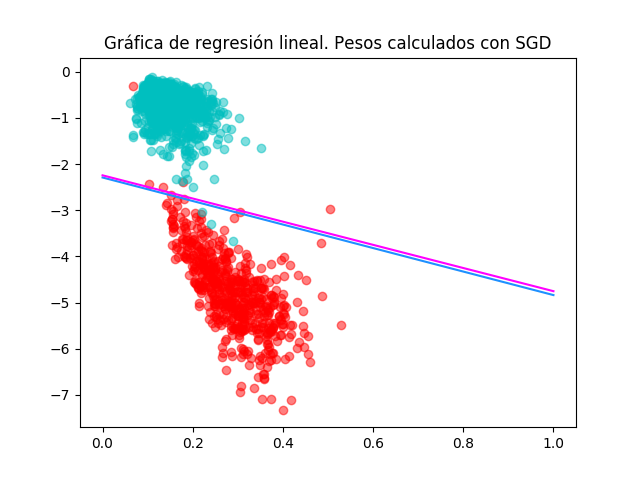
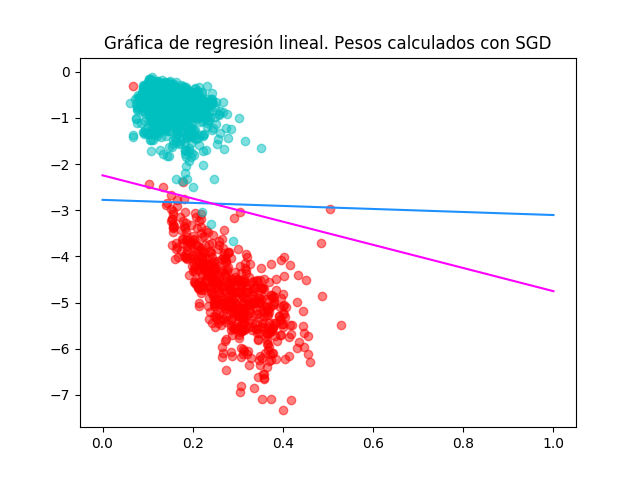
fixing sgd

diff --git a/PRACTICAS/P1/Template/Práctica1.py b/PRACTICAS/P1/Template/Práctica1.py
@@ -454,26 +454,32 @@ def sgd(X,Y,epsilon = 1e-14, lr = 0.001):
 	minibatch_size = 64 # establecemos un tamaño de minibatch
 	minibatch_num = size_of_x // minibatch_size # calculamos el número de minibatchs en que podemos dividir X
 	cols_of_x = len(X[0]) # calculamos el número de columnas de X (su número de características)
-	w = np.zeros(cols_of_x) # inicializamos un vector de pesos a 0 con longitud = cols_of_x
 	error_antiguo = 999.0 # inicializamos a un valor suficientemente alto para asegurarnos que entra en la condición de actualización de su valor
 	continuar = True # inicializamos a true para que entre en el bucle
+	w_epoca_actual = np.zeros(cols_of_x)
+	matriz_completa = np.c_[X,Y]
+	etiquetas = matriz_completa[:,3]
+	datos = matriz_completa[:,0:3]
 
 	# mientras la diferencia entre el anterior error calculado y el recién calculado sea mayor que 1e-14 continuamos realizando el algoritmo
 	while(continuar):
+		np.random.shuffle(matriz_completa)
+		etiquetas = matriz_completa[:,3]
+		datos = matriz_completa[:,0:3]
 		# recorremos todos los minibatchs en los que hemos dividido X
 		for i in range(minibatch_num):
 			# recorremos las características de X (sus columnas)
 			for j in range(cols_of_x):
 				# multiplicamos vectorialmente toda la submatriz de X que conforma un minibatch por su peso asociado
-				h_x = np.dot(X[i*minibatch_size : (i+1)*minibatch_size, :],w)
+				h_x = np.dot(datos[i*minibatch_size : (i+1)*minibatch_size, :],w_epoca_actual)
 				# restamos al valor obtenido su verdadero valor para ver cuanta precisión tenemos por ahora
-				diff = h_x - Y[i*minibatch_size : (i+1)*minibatch_size]
+				diff = h_x - etiquetas[i*minibatch_size : (i+1)*minibatch_size]
 				# multiplicamos individualmente la característica correspondiente a la columna j, fila a fila del minibatch, por la diferencia anterior
-				mul = np.dot(X[i*minibatch_size : (i+1)*minibatch_size , j], diff)
+				mul = np.dot(datos[i*minibatch_size : (i+1)*minibatch_size , j], diff)
 				# realizamos la sumatoria de los valores obtenidos en el vector anterior (mul)
 				sumatoria = np.sum(mul)
 				# actualizamos w[j] (el peso de esa característica) restándole el valor anterior multiplicado por el learning rate
-				w[j] = w[j] - lr*sumatoria
+				w_epoca_actual[j] = w_epoca_actual[j] - lr*sumatoria
 
 		"""
 		si el número de filas de x no es múltiplo del tamaño del minibach sobrarán elementos en x que no se recorran con los bucles anteriores
@@ -481,15 +487,20 @@ def sgd(X,Y,epsilon = 1e-14, lr = 0.001):
 		"""
 		if size_of_x % minibatch_size != 0:
 			n = minibatch_num*minibatch_size
-			for j in range(cols_of_x):
-				h_x = np.dot(X[n : size_of_x, :],w)
-				diff = h_x - Y[n : size_of_x]
-				mul = np.dot(X[n : size_of_x , j], diff)
-				sumatoria = np.sum(mul)
-				w[j] = w[j] - lr*sumatoria
+			restantes = size_of_x - n
+			a = np.r_[ datos[n : size_of_x, :], datos[0:restantes, :] ]
+			b = np.r_[ etiquetas[n : size_of_x], etiquetas[0:restantes] ]
 
-		# calculamos el error que obtenemos con una primera vuelta a los minibatchs
-		error = Err(X,Y,w)
+			for j in range(cols_of_x):
+				h_x = np.dot(a,w_epoca_actual)
+				diff = h_x - b
+				mul = np.dot(a[:, j], diff)
+				sumatoria = np.sum(mul)
+				w_epoca_actual[j] = w_epoca_actual[j] - lr*sumatoria
+
+		# calculamos el error que obtenemos en la primera epoca a los minibatchs
+		error = Err(datos,etiquetas,w_epoca_actual)
+
 		# si todavía no llegamos a la precisión requerida repetimos el algoritmo
 		if(error_antiguo - error > epsilon):
 			error_antiguo = error
@@ -497,7 +508,7 @@ def sgd(X,Y,epsilon = 1e-14, lr = 0.001):
 		else:
 			continuar = False
 
-	return w
+	return w_epoca_actual
 
 # Pseudoinversa	
 def pseudoinverse(X,Y):

diff --git a/PRACTICAS/P1/Template/memoria.md b/PRACTICAS/P1/Template/memoria.md
@@ -162,8 +162,8 @@ Mostramos el error obtenido con SGD y Pseudo-inversa:
 
 |           | SGD               | Pseudo-inversa    |
 |-----------|-------------------|-------------------|
-|$E_{in}$   |0.08003514522556675|0.07918658628900395|
-|$E_{out}$  |0.12937370028710854|0.13095383720052584|  
+|$E_{in}$   |0.08262032686662257|0.07918658628900395|
+|$E_{out}$  |0.13317636750014467|0.13095383720052584|  
 
 Dibujaremos las rectas asociadas a la regresión:  
     De color azul la correspondiente al SGD  
@@ -193,15 +193,15 @@ Mapa de puntos según etiquetas y mapa de puntos con ruido:
 ![Mapa con ruido](imagenes/etiquetas_con_ruido.png)  
 
 - c) ___Usando como vector de características $(1, x_1, x_2)$ ajustar un modelo de regresion lineal al conjunto de datos generado y estimar los pesos w. Estimar el error de ajuste $E_{in}$ usando Gradiente Descendente Estocástico (SGD).___  
-$$E_{in} = 0.914712199961714$$  
+$$E_{in} = 0.9266173649533643$$  
 
 - d) ___Ejecutar todo el experimento definido por (a)-(c) 1000 veces (generamos 1000 muestras diferentes) y___
     - ___Calcular el valor medio de los errores E in de las 1000 muestras.___
     - ___Generar 1000 puntos nuevos por cada iteración y calcular con ellos el valor de E out en dicha iteración. Calcular el valor medio de E out en todas las iteraciones.___  
 
 _Error medio tras 1000 iteraciones:_  
-$E_{in}$ medio:  0.926598330902378  
-$E_{out}$ medio:  0.9322474843982484  
+$E_{in}$ medio:  0.9273397180289497  
+$E_{out}$ medio:  0.9320711718563939  
   
 - e) ___Valore que tan bueno considera que es el ajuste con este modelo lineal a la vista de los valores medios obtenidos de $E_{in}$ y $E_{out}$___  
 
